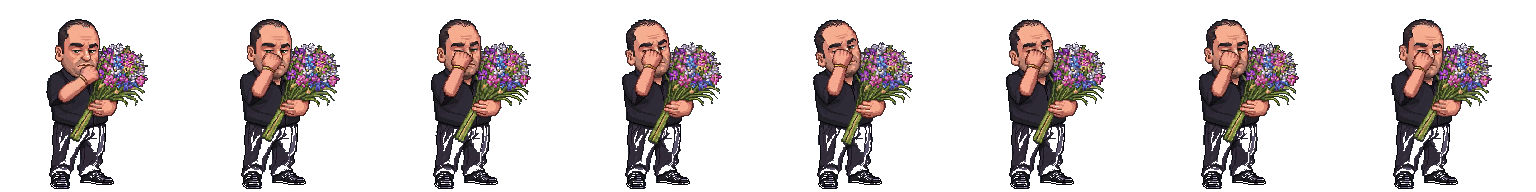
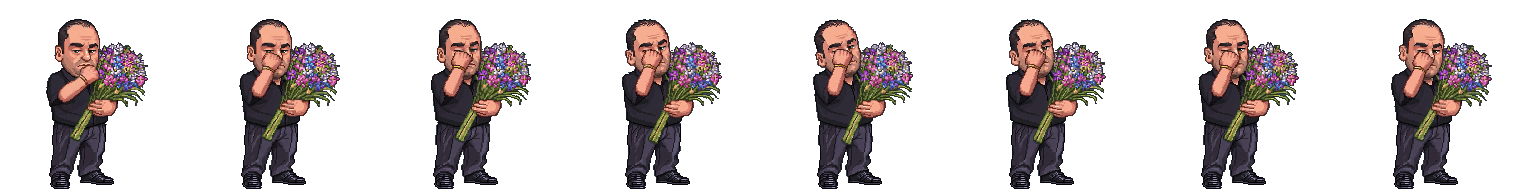
Cut the Don out again, this time without holes in his trousers
His background is dark blue and his trousers are near-black with a blue cast,
so the flood at the usual tolerance walked straight through the fabric and ate
holes in both legs. The pass that clears background trapped inside a figure —
added for the Outsider — finished the job: in the game he stood in rags.

Tolerance and that pass are per-build flags now. He is cut at 22 with the gap
pass off; between this pose's legs the background is open from the edges
anyway.

diff --git a/scripts/build-sprite.md b/scripts/build-sprite.md
@@ -289,4 +289,16 @@ npx ffmpeg -y -i strip.png -c:v libwebp -lossless 1 client/public/don-don.webp
 Центр меряется по всей фигуре вместе с букетом, поэтому сам человек стоит
 чуть левее середины — так и надо: иначе букет выпирал бы за край кадра.
 
+Вырезать его пришлось на других настройках, и это единственный такой случай:
+
+```bash
+node scripts/cut-sprite-background.mjs frames strip.png --shadow --tolerance 22 --no-gaps
+```
+
+Фон у исходника тёмно-синий, а штаны почти чёрные с синевой. На обычном
+допуске в 42 заливка прошла сквозь ткань и выела в штанинах дыры, а проход,
+снимающий запертый между ног фон, довершил дело — в игре Дон стоял драный.
+Допуск 22 отделяет ткань от фона, `--no-gaps` выключает тот самый проход:
+между ног у этой позы фон и так открыт с краёв.
+
 Итог: рост 170, нижний край 188, 149 КБ.
